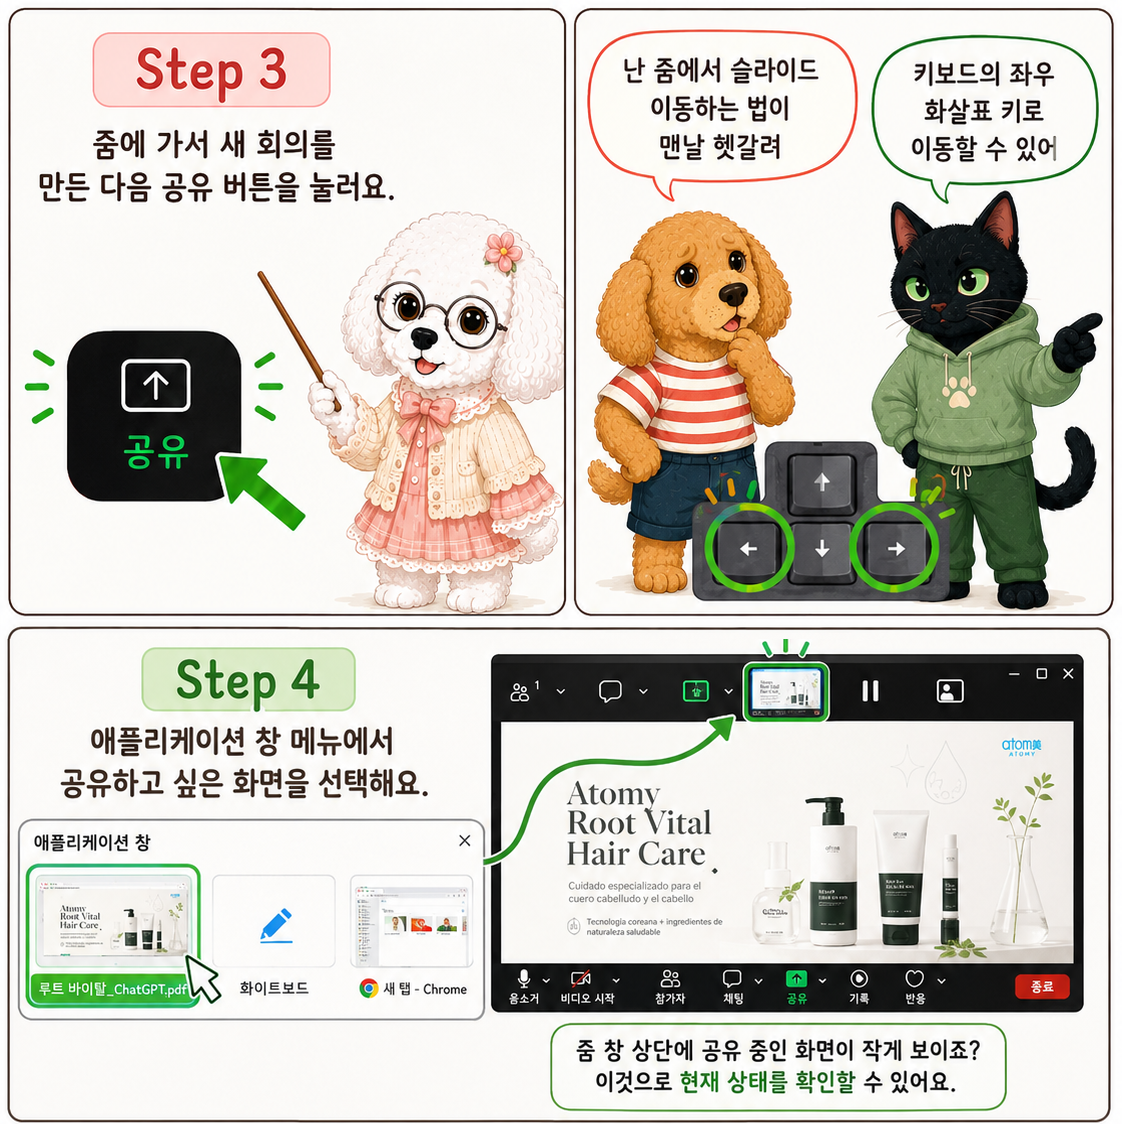
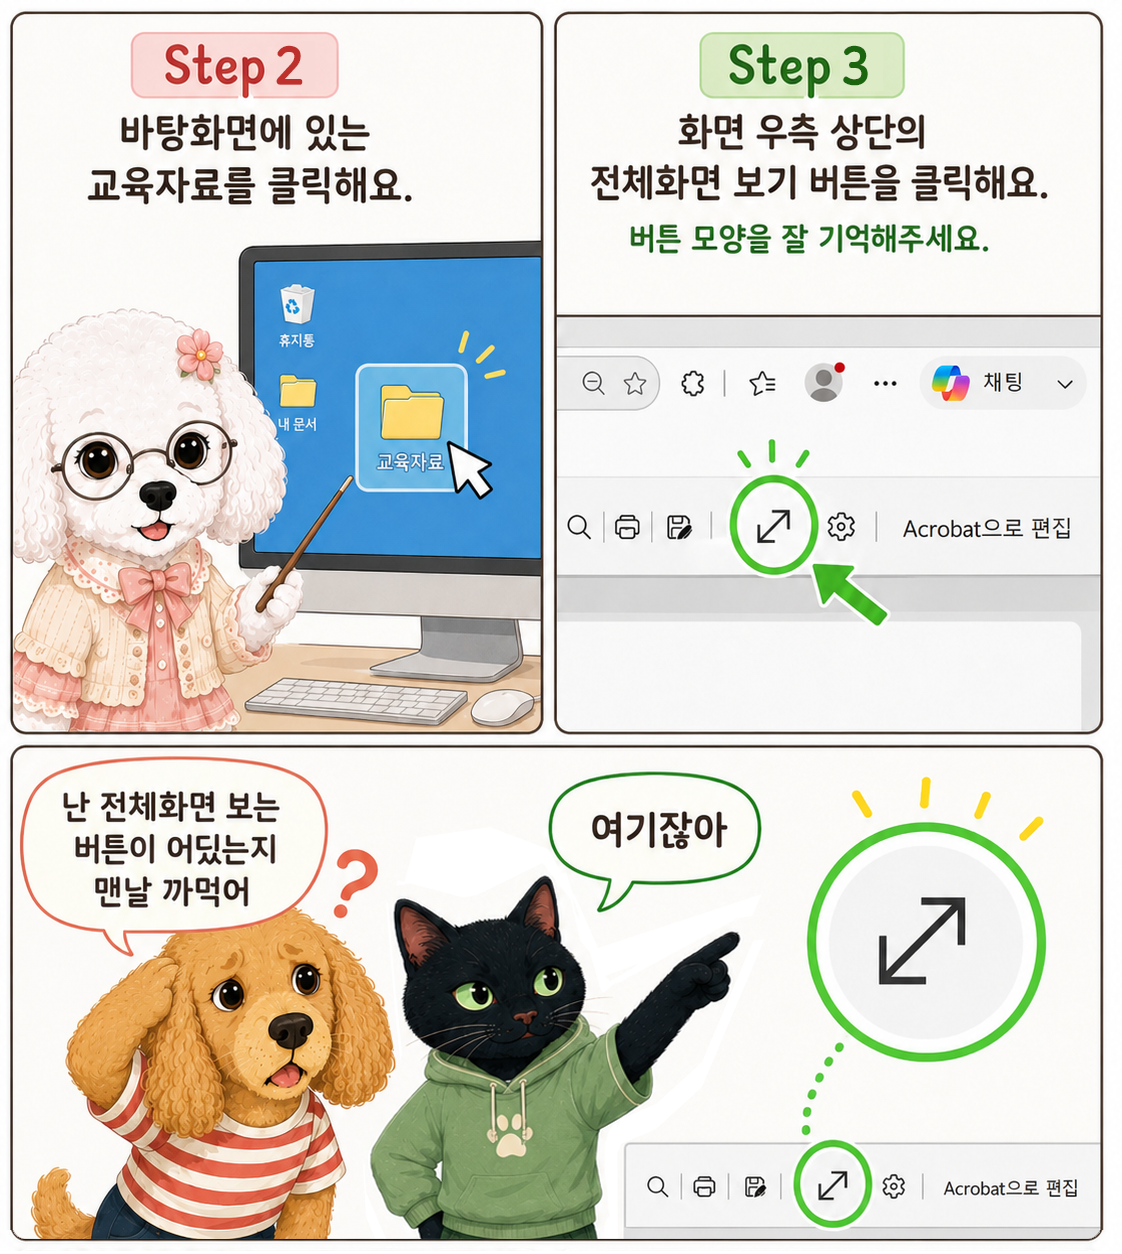
Add new PDF guides and update .gitignore for asset management

diff --git a/guides/pdf.html b/guides/pdf.html
@@ -302,6 +302,16 @@
               alt="PDF 파일을 줌에서 보여주는 방법 두 번째 안내"
               loading="lazy"
             /> 
+            <img
+              src="../assets/guides/pdf_guide_03.png"
+              alt="PDF 파일을 줌에서 보여주는 방법 세 번째 안내"
+              loading="lazy"
+            /> 
+            <img
+              src="../assets/guides/pdf_guide_04.png"
+              alt="PDF 파일을 줌에서 보여주는 방법 네 번째 안내"
+              loading="lazy"
+            /> 
           </figure>
         </div>
 